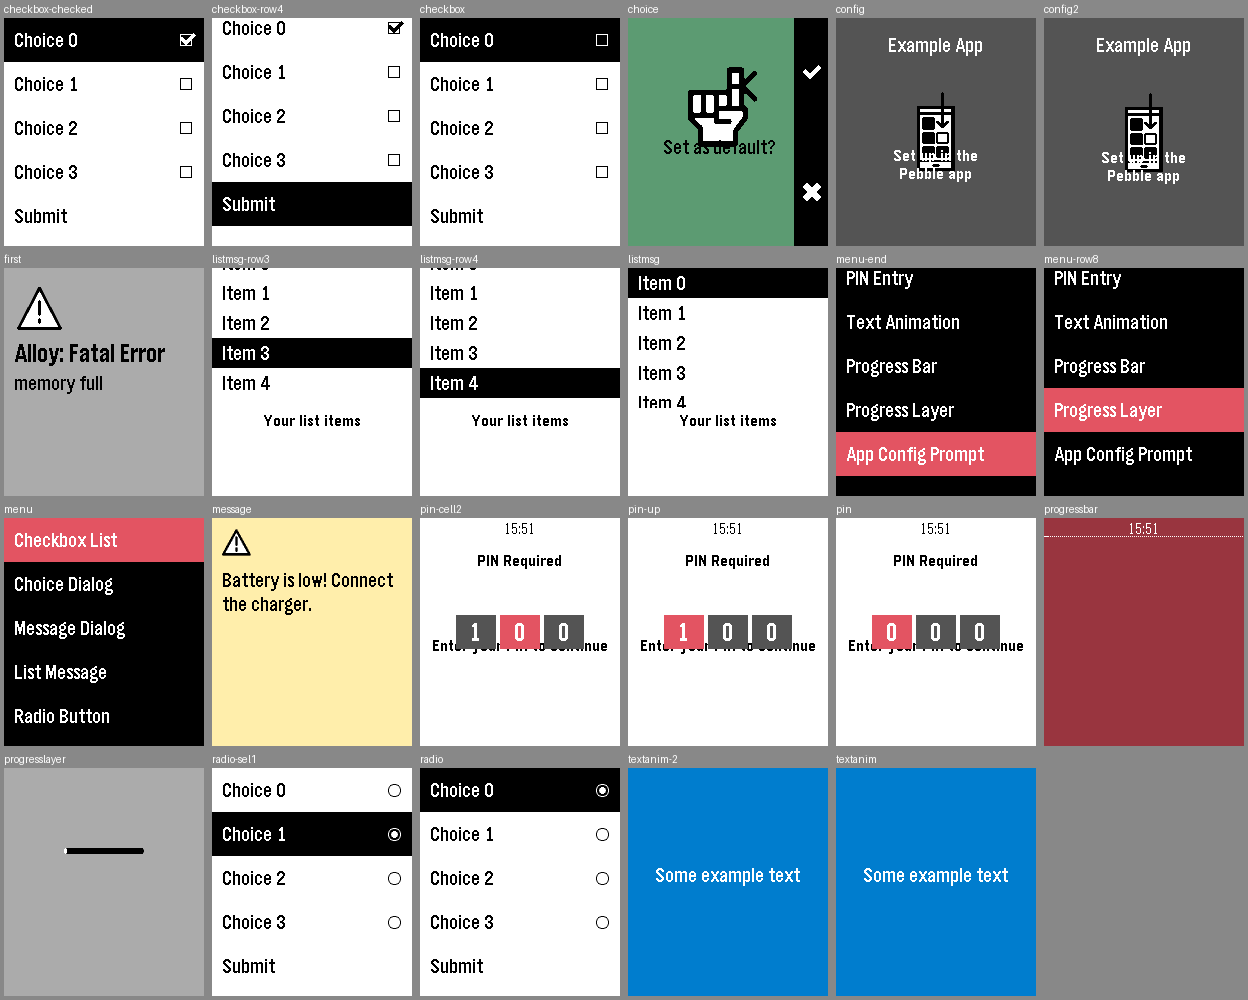
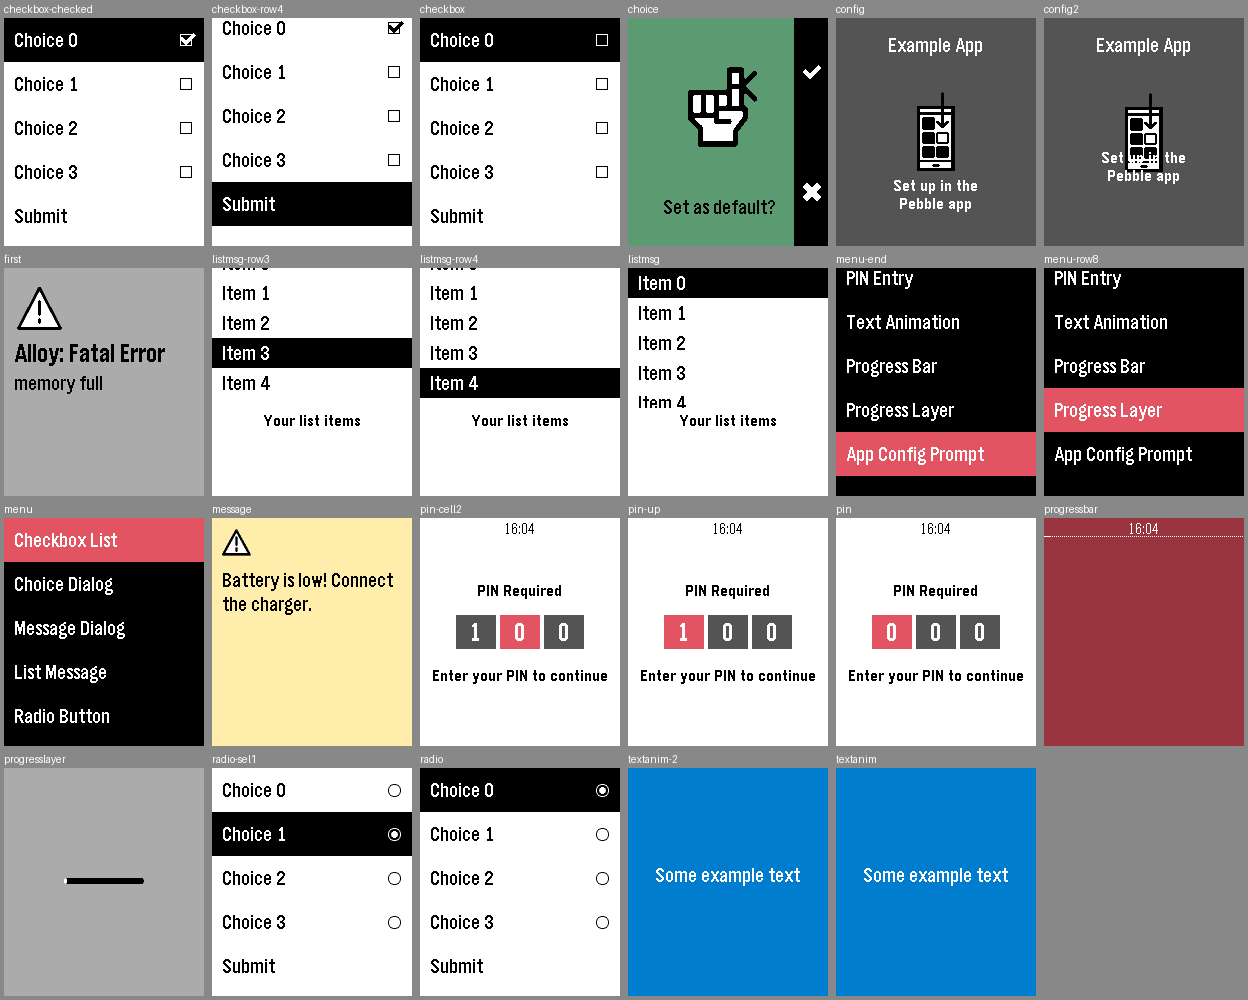
Anchor the hard-coded positions to their neighbours
The C code places the choice label, config body, PIN texts, progress bar
width and progress layer for the 168 px screen; on emery and gabbro that
put text over the icons and cells. They now follow what they sit next to,
as the original design has them. Screenshots and README updated.

diff --git a/src/embeddedjs/windows/pin_window.js b/src/embeddedjs/windows/pin_window.js
@@ -10,6 +10,12 @@ export const PIN_WINDOW_SIZE = { w: 128, h: 34 };
 
 const textStyle = textLayerStyle(FONT_KEY.GOTHIC_18_BOLD, GColor.Black, "center");
 
+// The selection layer is centred; the texts keep their distances to it from the
+// original 168 px screen (cells at 67: title at 30, sub text at 115).
+const SELECTION_TOP = (screen.height - PIN_WINDOW_SIZE.h) >> 1;
+const MAIN_TEXT_TOP = SELECTION_TOP - 37;
+const SUB_TEXT_TOP = SELECTION_TOP + PIN_WINDOW_SIZE.h + 14;
+
 function selectionCallbacks(view) {
 	const pin = view.pin;
 	return {
@@ -39,9 +45,9 @@ const PinWindowContainer = Container.template($ => ({
 	skin: skins.white, Behavior: $.constructor.Behavior,
 	contents: [
 		// Main TextLayer
-		Label($, { left: 0, right: 0, top: 30, bottom: 0, style: textStyle, string: "PIN Required" }),
+		Label($, { left: 0, right: 0, top: MAIN_TEXT_TOP, bottom: 0, style: textStyle, string: "PIN Required" }),
 		// Sub TextLayer
-		Text($, { left: 5, right: 5, top: 115, bottom: 10, style: textStyle, string: "Enter your PIN to continue" }),
+		Text($, { left: 5, right: 5, top: SUB_TEXT_TOP, bottom: 10, style: textStyle, string: "Enter your PIN to continue" }),
 		// Selection layer, centred
 		SelectionLayer({
 			numCells: PIN_WINDOW_NUM_CELLS,
@@ -51,7 +57,7 @@ const PinWindowContainer = Container.template($ => ({
 			inactiveBackgroundColor: GColor.DarkGray,
 			callbacks: selectionCallbacks($),
 		}, {
-			left: (screen.width - PIN_WINDOW_SIZE.w) >> 1, top: (screen.height - PIN_WINDOW_SIZE.h) >> 1,
+			left: (screen.width - PIN_WINDOW_SIZE.w) >> 1, top: SELECTION_TOP,
 			width: PIN_WINDOW_SIZE.w, height: PIN_WINDOW_SIZE.h,
 		}),
 		// Status bar: clear background, black text

diff --git a/src/embeddedjs/windows/dialog_choice_window.js b/src/embeddedjs/windows/dialog_choice_window.js
@@ -3,6 +3,9 @@ import { ROUND, PBL_IF_COLOR_ELSE, PBL_IF_ROUND_ELSE, ACTION_BAR_WIDTH, GColor, 
 import View from "piu/View";
 
 export const DIALOG_CHOICE_WINDOW_MESSAGE = "Set as default?";
+// The label's band at the bottom, which the icon's bounds are inset by (the C
+// code's label top of 112 is 168 - 56 on the original screen).
+const LABEL_HEIGHT = 56;
 
 const labelStyle = textLayerStyle(FONT_KEY.GOTHIC_24_BOLD, GColor.Black, "center");
 
@@ -48,10 +51,10 @@ const DialogChoiceContainer = Container.template($ => ({
 	contents: [
 		// The icon, centred in the bounds inset {top 7, right 28, bottom 56, left 14} (a BitmapLayer
 		// aligns centre, rounding down; Piu would round the vertical centre up).
-		Container($, { left: 14, top: 7, right: 28, bottom: 56, contents: [
-			Content($, { top: (screen.height - 7 - 56 - $.confirmSkin.height) >> 1, skin: $.confirmSkin }),
+		Container($, { left: 14, top: 7, right: 28, bottom: LABEL_HEIGHT, contents: [
+			Content($, { top: (screen.height - 7 - LABEL_HEIGHT - $.confirmSkin.height) >> 1, skin: $.confirmSkin }),
 		] }),
-		Label($, { left: ACTION_BAR_WIDTH >> 1, right: ACTION_BAR_WIDTH, top: 112, bottom: 0, style: labelStyle, string: DIALOG_CHOICE_WINDOW_MESSAGE }),
+		Label($, { left: ACTION_BAR_WIDTH >> 1, right: ACTION_BAR_WIDTH, top: screen.height - LABEL_HEIGHT, bottom: 0, style: labelStyle, string: DIALOG_CHOICE_WINDOW_MESSAGE }),
 		// The action bar with the tick on Up and the cross on Down.
 		ROUND
 			? Port($, { left: 0, right: 0, top: 0, bottom: 0, Behavior: RoundActionBarBehavior })

diff --git a/src/embeddedjs/windows/dialog_config_window.js b/src/embeddedjs/windows/dialog_config_window.js
@@ -9,13 +9,17 @@ const textColor = PBL_IF_COLOR_ELSE(GColor.White, GColor.Black);
 const titleStyle = textLayerStyle(FONT_KEY.GOTHIC_24_BOLD, textColor, "center");
 const bodyStyle = textLayerStyle(FONT_KEY.GOTHIC_18_BOLD, textColor, "center");
 
+// The icon is centred; the body starts 2 px under it (the C code's 125 on the
+// original screen, where the icon ends at 123).
+const BODY_GAP = 2;
+
 const DialogConfigContainer = Container.template($ => ({
 	skin: new Skin({ fill: PBL_IF_COLOR_ELSE(GColor.DarkGray, GColor.White) }), Behavior: $.constructor.Behavior,
 	contents: [
 		// Centred, rounding down as a BitmapLayer does (Piu would round the vertical centre up).
 		Content($, { top: (screen.height - $.iconSkin.height) >> 1, skin: $.iconSkin }),
 		Label($, { left: 0, right: 0, top: 10, bottom: 0, style: titleStyle, string: DIALOG_CONFIG_WINDOW_APP_NAME }),
-		Text($, { left: 5, right: 5, top: 125, bottom: 0, style: bodyStyle, string: DIALOG_CONFIG_WINDOW_MESSAGE }),
+		Text($, { left: 5, right: 5, top: ((screen.height - $.iconSkin.height) >> 1) + $.iconSkin.height + BODY_GAP, bottom: 0, style: bodyStyle, string: DIALOG_CONFIG_WINDOW_MESSAGE }),
 	],
 }));
 

diff --git a/src/embeddedjs/windows/progress_layer_window.js b/src/embeddedjs/windows/progress_layer_window.js
@@ -29,7 +29,8 @@ const ProgressLayerContainer = Container.template($ => ({
 			width: PROGRESS_LAYER_WINDOW_WIDTH, progress: 0, cornerRadius: 2,
 			foregroundColor: GColor.White, backgroundColor: GColor.Black,
 		}, {
-			left: (screen.width - PROGRESS_LAYER_WINDOW_WIDTH) >> 1, top: 80, width: PROGRESS_LAYER_WINDOW_WIDTH, height: 6,
+			// 4 px above the middle, as the C code's 80 is on the 168 px screen.
+			left: (screen.width - PROGRESS_LAYER_WINDOW_WIDTH) >> 1, top: (screen.height >> 1) - 4, width: PROGRESS_LAYER_WINDOW_WIDTH, height: 6,
 		}),
 	],
 }));

diff --git a/src/embeddedjs/windows/progress_bar_window.js b/src/embeddedjs/windows/progress_bar_window.js
@@ -4,7 +4,7 @@ import { StatusBar } from "StatusBar";
 import Timer from "timer";
 import View from "piu/View";
 
-export const PROGRESS_BAR_WINDOW_SIZE = { w: 144, h: 1 }; // System default
+export const PROGRESS_BAR_WINDOW_SIZE = { w: screen.width, h: 1 }; // System default (144 in the C code: the original screen's width)
 export const PROGRESS_BAR_WINDOW_DELTA = 33;
 
 class ProgressBarBehavior extends View.Behavior {

diff --git a/README.md b/README.md
@@ -29,34 +29,38 @@ All frames at once: [emery](screenshots/emery/all.png), [gabbro](screenshots/gab
 
 The C original was built for emery and gabbro with SDK 4.33.1, driven through
 every screen in the emulators, and screenshotted. This app was put through the
-same steps and the PNGs diffed pixel by pixel. Every static screen is identical
-on emery; on gabbro everything is identical except a handful of blended pixels
-along the round action bar's anti-aliased edge (`screenshots/` holds this
-app's frames). The behaviours match the C code: Up/Down with repeat while held,
-Select and Back per window, the checkbox and radio submit logs, the PIN
-callback (`Pin was 2 9 0`), the timers and animations with the C durations.
+same steps and the PNGs diffed pixel by pixel. The menus, the checkbox and
+radio lists, the message dialog, the list with its hint and the text
+animation are identical on emery, pixel for pixel; on gabbro the same, except
+a handful of blended pixels along the round action bar's anti-aliased edge.
+The five screens below differ from the C app only where it was adapted
+(`screenshots/` holds this app's frames). The behaviours match the C code:
+Up/Down with repeat while held, Select and Back per window, the checkbox and
+radio submit logs, the PIN callback (`Pin was 2 9 0`), the timers and
+animations with the C durations.
 
 Geometry that the C SDK computes internally was measured on the emulators,
 not guessed: MenuLayer cells and scrolling, the action bar and its icon
 positions, the status bar, the fonts the firmware substitutes on these
 displays. Each measured value is named where it is used.
 
-### Kept literal from the C source
+### Adapted for the larger screens
 
-The C windows hard-code a few positions for the original 144x168 screen. The
-C app does the same thing when built for emery or gabbro, so they are kept as
-written and look the same here:
+The C windows hard-code a few positions for the original 144x168 screen; built
+as-is for emery or gabbro they put text over the icons and cells. Here those
+positions are anchored to what they sit next to, so the screens look as the
+original does:
 
-| Window | Constant | Effect on 200x228 / 260x260 |
+| Window | C constant | Here |
 | --- | --- | --- |
-| Choice dialog | label `top: 112` | the label overlaps the icon |
-| App config prompt | body `top: 125` | the body overlaps the icon |
-| List message | hint `top: 140` | the hint covers the last row |
-| PIN entry | sub text `top: 115` | the cells cover the sub text |
-| Progress bar | `PROGRESS_BAR_WINDOW_SIZE.w = 144` | the line stops at 144 of 200 px |
+| Choice dialog | label `top: 112` | the bottom 56 px, the band the icon is inset by |
+| App config prompt | body `top: 125` | 2 px under the centred icon |
+| PIN entry | title `top: 30`, sub text `top: 115` | 37 px above and 14 px below the centred cells |
+| Progress bar | width `144` | the screen's width (the C comment: "system default") |
+| Progress layer | `top: 80` | 4 px above the middle |
 
-Each is a one-constant change in its window module if a layout for the larger
-screens is wanted instead.
+The list hint keeps the C position (top 140 over a 150 px menu): the original
+covers the last row the same way.
 
 ## Layout
 
